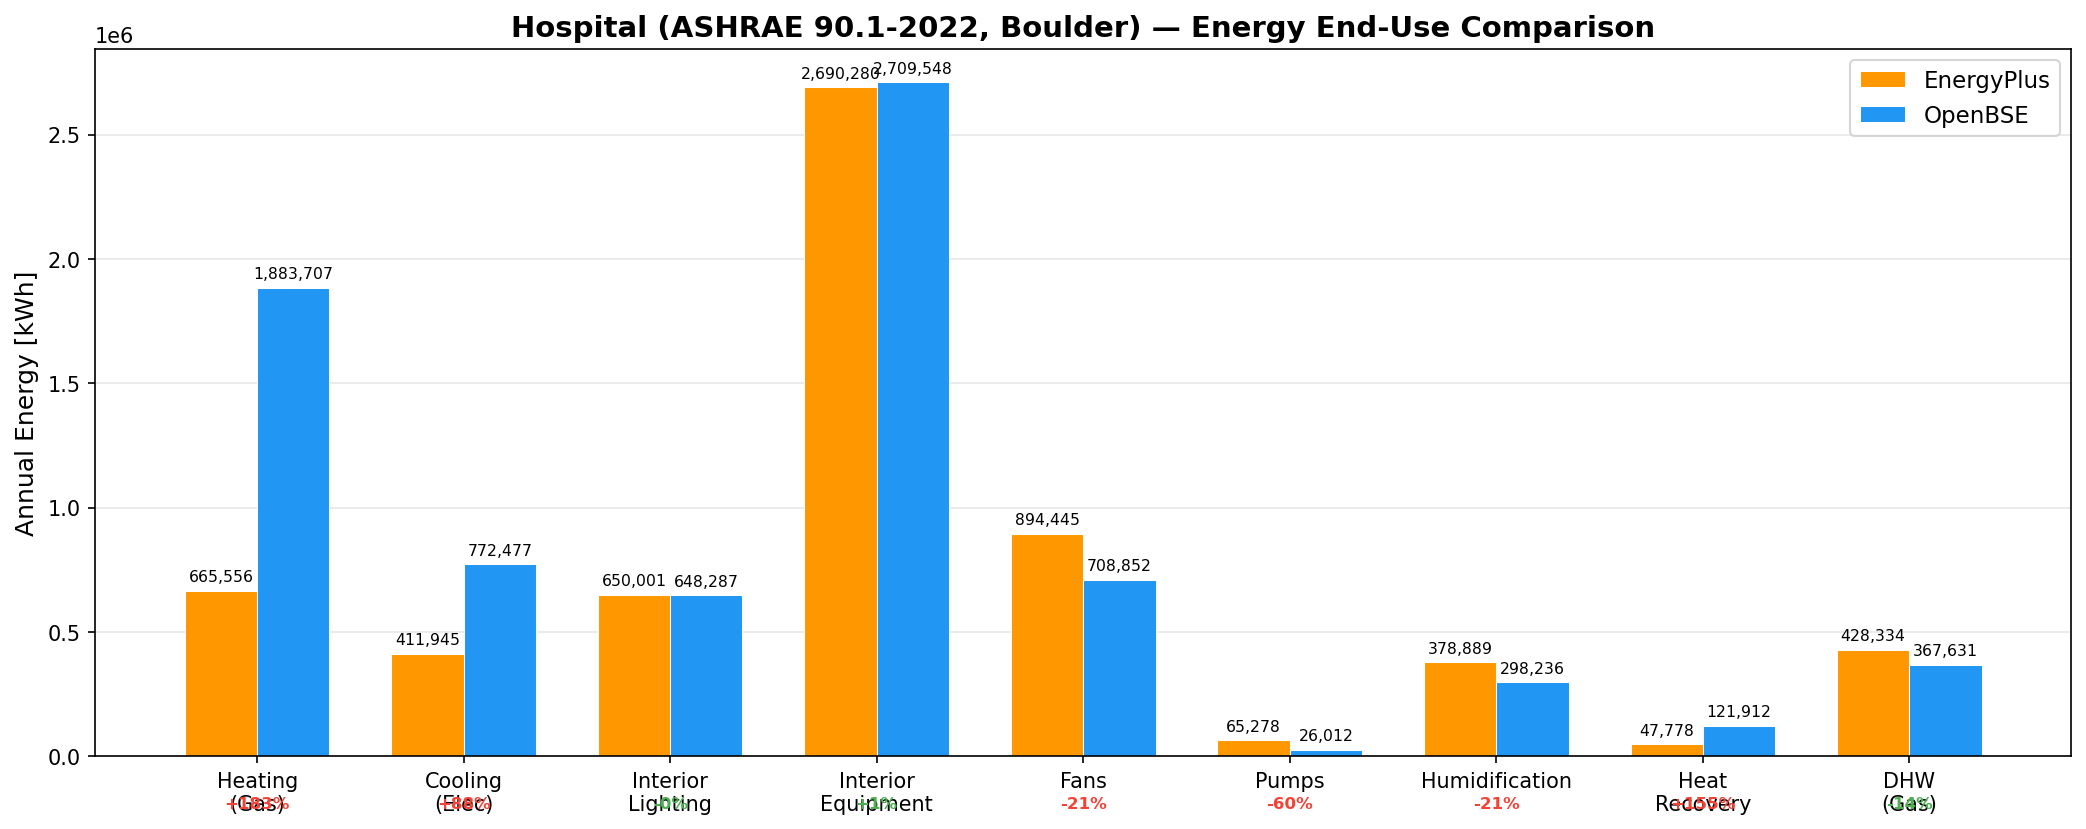
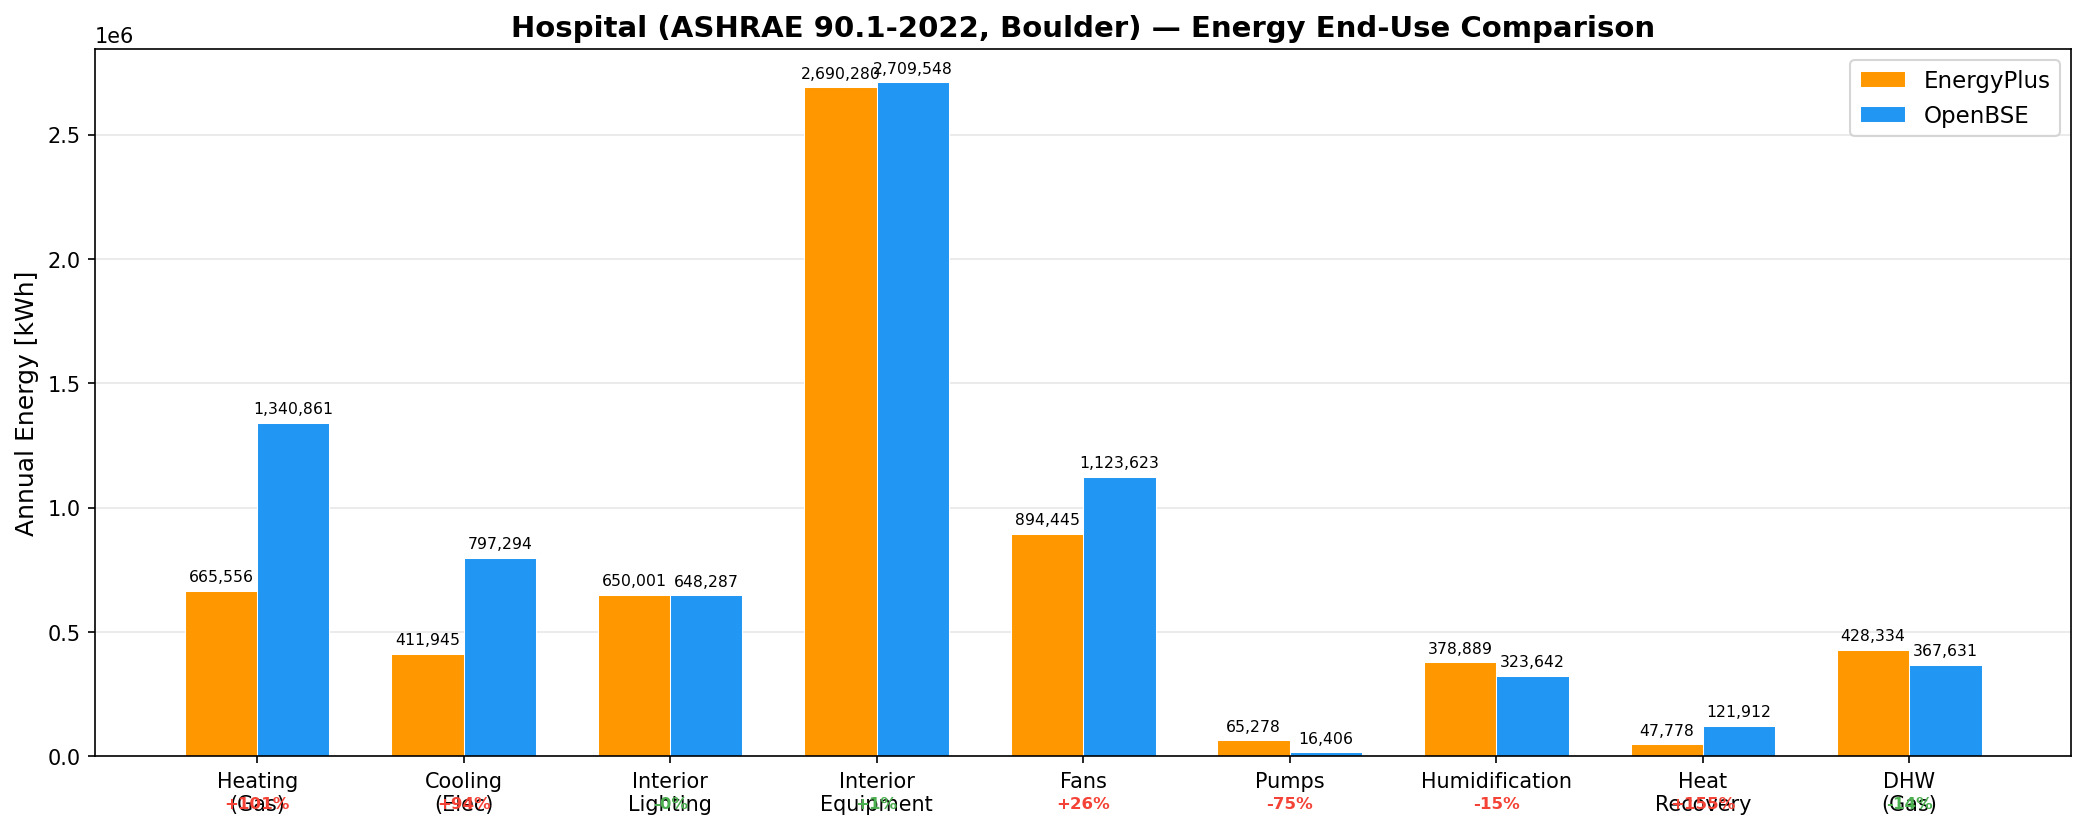
Improve Large Office E+ comparison: economizer, pump, and sizing fixes
PSZ-AC economizer: target SAT instead of zone setpoint, enable in
deadband mode for free cooling. Per-loop cooling SAT override for zone
sizing (DC_basement 15.89°C vs office 12.8°C). Add motor_heat_to_fluid
pump parameter to input schema and wire through to component. Fix pump
parameters: CHW impeller_efficiency 0.72, staged primary pumps,
motor_heat_to_fluid=0 matching E+. Update mains temp and DHW use_temp.

Results: Pumps +75%→-4.5%, Cooling +53%→+34%, Fans stable at -19%.
Heating gas +27% traced to fan heat redistribution (PSZ cycling vs E+
SingleZoneVAV modulation). Total within +2.4% of E+.

diff --git a/crates/openbse-cli/src/main.rs b/crates/openbse-cli/src/main.rs
@@ -630,6 +630,40 @@ fn main() -> Result<()> {
                 zone_design_flows.insert(zone_name.clone(), flow);
             }
 
+            // ── Per-loop cooling SAT override ──
+            // Zone sizing uses the global min cooling_supply_temp.  Loops
+            // with a higher cooling SAT (e.g., data center at 15.89°C vs
+            // 12.8°C for offices) need proportionally more airflow.
+            // Recalculate zone design airflows for those loops.
+            let global_cool_sat = supply_temps.map(|t| t.1).unwrap_or(13.0);
+            let cp_air_sz = 1005.0_f64;
+            for li in &loop_infos {
+                if (li.cooling_supply_temp - global_cool_sat).abs() > 0.5 {
+                    for zone_name in &li.served_zones {
+                        let cool_sp = resolved_thermostats.iter()
+                            .find(|t| t.zones.contains(zone_name))
+                            .map(|t| t.cooling_setpoint)
+                            .unwrap_or(24.0);
+                        let cool_load = sizing_result.zone_peak_cooling
+                            .get(zone_name).copied().unwrap_or(0.0)
+                            * model.simulation.cooling_sizing_factor;
+                        let dt = (cool_sp - li.cooling_supply_temp).max(5.0);
+                        let new_flow = if cool_load > 0.0 {
+                            cool_load / (cp_air_sz * dt)
+                        } else {
+                            zone_design_flows.get(zone_name).copied().unwrap_or(0.01)
+                        };
+                        let old_flow = zone_design_flows.get(zone_name).copied().unwrap_or(0.01);
+                        if new_flow > old_flow {
+                            log::info!("Per-loop SAT override: {} airflow {:.2} → {:.2} kg/s \
+                                (loop {} SAT={:.1}°C)", zone_name, old_flow, new_flow,
+                                li.name, li.cooling_supply_temp);
+                            zone_design_flows.insert(zone_name.clone(), new_flow);
+                        }
+                    }
+                }
+            }
+
             // Apply sized capacities to HVAC components.
             //
             // Sizing is loop-aware:
@@ -2781,12 +2815,12 @@ fn build_psz_signals(
         .clamp(heat_sp, max_heating_dat);
 
     // ── Cooling control ──
-    // Two separate targets:
-    // 1. Economizer target: proportional DAT for OA mixing (12°C to cool_sp)
-    // 2. Coil setpoint: very low so coil runs at full capacity when ON.
-    //    For ON/OFF cycling, PLR controls runtime, not the coil setpoint.
-    let cooling_error = (control_temp - cool_sp).max(0.0);
-    let econ_target = (cool_sp - cooling_error.min(10.0)).clamp(12.0, cool_sp);
+    // Economizer target: modulate OA to achieve the supply air temperature
+    // (SAT) in the mixed air, minimizing cooling coil work.  This matches
+    // E+'s Controller:OutdoorAir behavior where the OA damper targets the
+    // mixed-air setpoint derived from the cooling-coil leaving-air temp.
+    // Use the loop's cooling SAT as the economizer target.
+    let econ_target = li.cooling_supply_temp;
     // Coil setpoint: -10°C forces the DX coil to run at full physical capacity.
     // The coil's actual outlet temp is limited by its available capacity.
     let cooling_coil_sp = if mode == HvacMode::Cooling { -10.0 } else { 99.0 };
@@ -2806,19 +2840,21 @@ fn build_psz_signals(
         EconomizerType::DifferentialDryBulb => t_outdoor < return_air_temp,
         EconomizerType::DifferentialEnthalpy => t_outdoor < return_air_temp,
     };
-    let oa_frac = match mode {
-        HvacMode::Cooling if psz_econ_available => {
-            // Economizer available: OA can help cooling.
-            // Modulate to achieve economizer target.
-            let delta = return_air_temp - t_outdoor;
-            if delta > 0.1 {
-                let needed = (return_air_temp - econ_target) / delta;
-                needed.clamp(effective_min_oa, 1.0)
-            } else {
-                effective_min_oa
-            }
+    let oa_frac = if psz_econ_available && mode != HvacMode::Heating {
+        // Economizer: modulate OA to approach SAT target in mixed air.
+        // Active in both Cooling and Deadband — provides free cooling from
+        // outdoor air, reducing or eliminating mechanical cooling.  Matches
+        // E+'s economizer which operates whenever OA conditions are favorable,
+        // regardless of whether the cooling coil is currently active.
+        let delta = return_air_temp - t_outdoor;
+        if delta > 0.1 {
+            let needed = (return_air_temp - econ_target) / delta;
+            needed.clamp(effective_min_oa, 1.0)
+        } else {
+            effective_min_oa
         }
-        _ => effective_min_oa,
+    } else {
+        effective_min_oa
     };
     let mixed_air_temp = return_air_temp * (1.0 - oa_frac) + t_outdoor * oa_frac;
 

diff --git a/eplus_comparison/compare_end_uses.py b/eplus_comparison/compare_end_uses.py
@@ -125,6 +125,65 @@ pct_total = (total_ob - total_ep) / total_ep * 100
 print(f'{"TOTAL":<22} {total_ep:>12,.1f} {total_ob:>12,.1f} {pct_total:>+9.1f}%')
 
 
+# ── Large Office (Boulder, ASHRAE 90.1-2019) ─────────────────────────────
+# EnergyPlus reference values (GJ → kWh: ×277.778)
+# Source: LargeOffice_Denver_simplified.idf (output_office_simplified/eplustbl.csv)
+eplus_office_gj = {
+    'Heating\n(Gas)':       1457.05,
+    'Cooling\n(Elec)':      1990.56,
+    'Interior\nLighting':   5610.74,
+    'Exterior\nLighting':   1006.07,
+    'Interior\nEquipment': 14676.40,
+    'Exterior\nEquipment':  2567.07,
+    'Fans':                 3637.15,
+    'Pumps':                 467.17,
+    'DHW\n(Elec)':           450.48,
+}
+eplus_office = {k: v * 277.778 for k, v in eplus_office_gj.items()}
+
+# OpenBSE results (kWh) from LargeOffice_Boulder_summary.txt
+openbse_office = {
+    'Heating\n(Gas)':       515597.8,
+    'Cooling\n(Elec)':      743359.9,
+    'Interior\nLighting':  1605569.1,
+    'Exterior\nLighting':   296814.9,
+    'Interior\nEquipment': 4120788.7,
+    'Exterior\nEquipment':  711724.4,
+    'Fans':                 814510.7,
+    'Pumps':                123896.8,
+    'DHW\n(Elec)':          131925.9,
+}
+
+cats_o = list(eplus_office.keys())
+ev_o = [eplus_office[c] for c in cats_o]
+ov_o = [openbse_office[c] for c in cats_o]
+
+make_comparison_chart(
+    cats_o, ev_o, ov_o,
+    'Large Office (Boulder, ASHRAE 90.1-2019) — Energy End-Use Comparison',
+    'LargeOffice_Boulder_comparison.png',
+    figsize=(14, 6)
+)
+
+print('\n' + '='*70)
+print('Large Office — Energy End-Use Comparison (kWh)')
+print('='*70)
+print(f'{"End Use":<22} {"EnergyPlus":>12} {"OpenBSE":>12} {"Diff":>10}')
+print('-'*56)
+total_ep_o, total_ob_o = 0, 0
+for c in cats_o:
+    ep_val = eplus_office[c]
+    ob_val = openbse_office[c]
+    total_ep_o += ep_val
+    total_ob_o += ob_val
+    pct = (ob_val - ep_val) / ep_val * 100 if ep_val > 0 else 0
+    c_flat = c.replace('\n', ' ')
+    print(f'{c_flat:<22} {ep_val:>12,.1f} {ob_val:>12,.1f} {pct:>+9.1f}%')
+print('-'*56)
+pct_total_o = (total_ob_o - total_ep_o) / total_ep_o * 100
+print(f'{"TOTAL":<22} {total_ep_o:>12,.1f} {total_ob_o:>12,.1f} {pct_total_o:>+9.1f}%')
+
+
 # ── Hospital (placeholder — will be filled after simulation) ──────────────
 # EnergyPlus reference values (GJ → kWh: ×277.778)
 eplus_hosp_gj = {

diff --git a/crates/openbse-io/src/input.rs b/crates/openbse-io/src/input.rs
@@ -883,6 +883,11 @@ pub struct PumpInput {
     /// Each individual pump's design flow = total design flow / num_pumps.
     #[serde(default = "default_num_pumps")]
     pub num_pumps: u32,
+    /// Fraction of motor inefficiency heat added to the fluid stream [0-1] (default: 1.0).
+    /// E+ field: "Fraction of Motor Inefficiencies to Fluid Stream".
+    /// Set to 0.0 to match E+ models where pump heat doesn't warm the water.
+    #[serde(default = "default_motor_heat_to_fluid")]
+    pub motor_heat_to_fluid_fraction: f64,
     /// Part-load power curve coefficients [c1, c2, c3, c4] for variable speed pumps.
     /// power_frac = c1 + c2*PLR + c3*PLR² + c4*PLR³
     /// Default: [0, 0, 0, 1] (pure cubic / affinity laws).
@@ -901,6 +906,7 @@ pub struct PumpInput {
 
 fn default_num_pumps() -> u32 { 1 }
 fn default_impeller_eff() -> f64 { 0.667 }
+fn default_motor_heat_to_fluid() -> f64 { 1.0 }
 
 fn default_pump_type() -> String { "variable_speed".to_string() }
 fn default_pump_head() -> f64 { 179_352.0 }
@@ -1558,7 +1564,7 @@ pub fn build_graph(model: &ModelInput) -> Result<SimulationGraph, InputError> {
                             None
                         }
                     });
-                    let pump = openbse_components::pump::Pump::new_headered(
+                    let mut pump = openbse_components::pump::Pump::new_headered(
                         &p.name,
                         pump_type,
                         p.design_flow_rate.to_f64(),
@@ -1568,6 +1574,7 @@ pub fn build_graph(model: &ModelInput) -> Result<SimulationGraph, InputError> {
                         p.num_pumps,
                         power_curve,
                     );
+                    pump.motor_heat_to_fluid_fraction = p.motor_heat_to_fluid_fraction;
                     graph.add_plant_component(Box::new(pump))
                 }
             };
